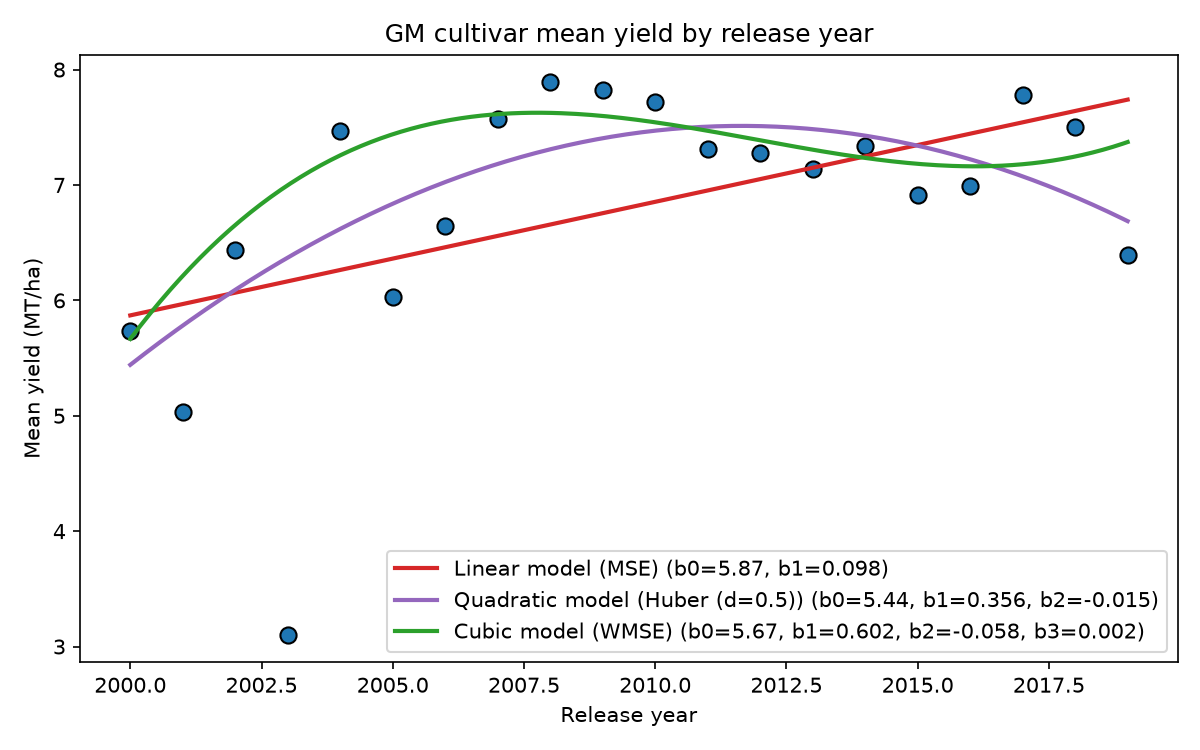
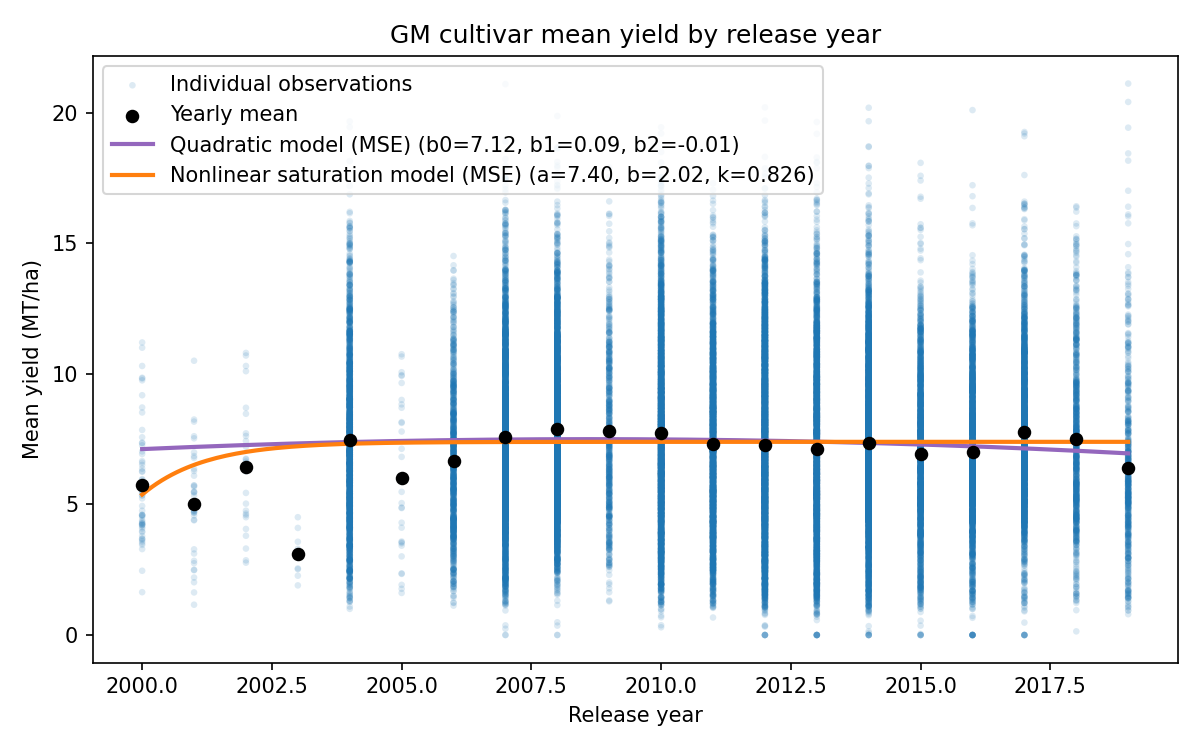
pf4

diff --git a/maize-regression-model.py b/maize-regression-model.py
@@ -4,65 +4,76 @@ import matplotlib.pyplot as plt
 
 reg_df = pd.read_stata('SourceData/RegData.dta')
 
-gm_df = reg_df[reg_df['AGE'] == 1].copy()
+gm_df = reg_df[reg_df['AGE'] == 1][['release', 'Yield']].dropna()
 
-yearly = gm_df.groupby('release')['Yield'].agg(['mean', 'std', 'count']).reset_index()
-
-x = yearly['release'].values - 2000 #RLYR offset
-y = yearly['mean'].values
-
-w = yearly['count'].values
-
-"""def model_lin(th, x):
-    return th[0] + th[1]*x
+x = gm_df['release'].values - 2000 #RLYR offset
+y = gm_df['Yield'].values
 
 def model_quad(th, x):
     return th[0] + th[1]*x + th[2]*(x**2)
 
-def model_cube(th, x):
-    return th[0] + th[1]*x + th[2]*(x**2) + th[3]*(x**3)"""
+def model_non_linear(th, x):
+    return th[0] - th[1]*np.exp(-th[2]*x) # asymptotic growth
 
-def model(th, x):
-    return sum(th[i] * x**i for i in range(len(th)))
-
-def mse_loss(th, x, y):
+def mse_loss(th, x, y, model):
     return np.mean((y - model(th, x))**2)
 
-def huber_loss(th, x, y, delta=0.5):
-    r = y - model(th, x)
-    abs_r = np.abs(r)
-    per_point_loss = np.where(
-        abs_r <= delta,
-        0.5 * r**2,
-        delta * (abs_r - 0.5 * delta)
-    )
-    return np.mean(per_point_loss)
+x0_quad = [y.mean(), 0, 0]
+x0_nonlinear = [y.mean(), 2, 0.5]
 
-def wmse_loss(th, x, y, w):
-    return np.sum(w * (y - model(th, x))**2) / np.sum(w)
+result_quad = minimize(mse_loss, x0=x0_quad, args=(x, y, model_quad), method='BFGS')
+result_nonlinear = minimize(mse_loss, x0=x0_nonlinear, args=(x, y, model_non_linear), method='BFGS')
 
-result_lin = minimize(mse_loss, x0=[0, 0], args=(x, y), method='BFGS')
-result_quad = minimize(huber_loss, x0=[0, 0, 0], args=(x, y), method='BFGS')
-result_cube = minimize(wmse_loss, x0=[0, 0, 0, 0], args=(x, y, w), method='BFGS')
+print(f'result quad: {result_quad}')
+print(f'result non linear: {result_nonlinear}')
 
-print(result_lin)
-print(result_quad)
-print(result_cube)
+#bootstrapping
+rng = np.random.default_rng(42)
+n = len(x)
+
+def bootstrap_replicate():
+    i = rng.integers(0, n, size=n) # resample rows ...
+    quad = minimize(mse_loss, x0=result_quad.x, args=(x[i], y[i], model_quad), method='BFGS').x
+    nonlinear = minimize(mse_loss, x0=result_nonlinear.x, args=(x[i], y[i], model_non_linear), method='BFGS').x
+    return quad, nonlinear # ... and refit both models
+
+reps = [bootstrap_replicate() for _ in range(1000)]
+bs_quad = np.array([r[0] for r in reps])
+bs_nonlinear = np.array([r[1] for r in reps])
+
+# percentile intervals for the parameters
+print('quad confidence interval (b0, b1, b2):\n', np.quantile(bs_quad, [0.025, 0.975], axis=0).T)
+print('nonlinear confidence interval (a, b, k):\n', np.quantile(bs_nonlinear, [0.025, 0.975], axis=0).T)
+
+# yield gain betweeen 2000 and 2019
+def gain(model, th):
+    return model(th, 19) - model(th, 0)
+
+gain_quad = np.array([gain(model_quad, th) for th in bs_quad])
+gain_nonlinear = np.array([gain(model_non_linear, th) for th in bs_nonlinear])
+print('gain quad confidence interval:', np.quantile(gain_quad, [0.025, 0.975]))
+print('gain nonlinear confidence interval:', np.quantile(gain_nonlinear, [0.025, 0.975]))
+print('gain difference confidence interval (quad - nonlinear):', np.quantile(gain_quad - gain_nonlinear, [0.025, 0.975]))
 
 x_grid = np.linspace(x.min(), x.max(), 200)
-y_fit_lin = model(result_lin.x, x_grid)
-y_fit_quad = model(result_quad.x, x_grid)
-y_fit_cube = model(result_cube.x, x_grid)
+y_fit_quad = model_quad(result_quad.x, x_grid)
+y_fit_nonlinear = model_non_linear(result_nonlinear.x, x_grid)
 release_grid = x_grid + 2000 #re-add year offset for graph
 
+yearly_mean = gm_df.groupby('release')['Yield'].mean()
+
 plt.figure(figsize=(8, 5))
-plt.scatter(yearly['release'], yearly['mean'], s=60, color='tab:blue', edgecolor='black')
-plt.plot(release_grid, y_fit_lin, color='tab:red', linewidth=2,
-         label=f'Linear model (MSE) (b0={result_lin.x[0]:.2f}, b1={result_lin.x[1]:.3f})')
+plt.scatter(gm_df['release'], gm_df['Yield'], s=10, alpha=0.15,
+            color='tab:blue', edgecolor='none', label='Individual observations')
+plt.scatter(yearly_mean.index, yearly_mean.values, s=30, color='black',
+            zorder=3, label='Yearly mean')
+
 plt.plot(release_grid, y_fit_quad, color='tab:purple', linewidth=2,
-         label=f'Quadratic model (Huber (d=0.5)) (b0={result_quad.x[0]:.2f}, b1={result_quad.x[1]:.3f}, b2={result_quad.x[2]:.3f})')
-plt.plot(release_grid, y_fit_cube, color='tab:green', linewidth=2,
-         label=f'Cubic model (WMSE) (b0={result_cube.x[0]:.2f}, b1={result_cube.x[1]:.3f}, b2={result_cube.x[2]:.3f}, b3={result_cube.x[3]:.3f})')
+         label=f'Quadratic model (MSE) (b0={result_quad.x[0]:.2f}, b1={result_quad.x[1]:.2f}, b2={result_quad.x[2]:.2f})')
+
+plt.plot(release_grid, y_fit_nonlinear, color='tab:orange', linewidth=2,
+         label=f'Nonlinear asymptotic growth model (MSE) (a={result_nonlinear.x[0]:.2f}, b={result_nonlinear.x[1]:.2f}, k={result_nonlinear.x[2]:.3f})')
+
 plt.xlabel('Release year')
 plt.ylabel('Mean yield (MT/ha)')
 plt.title('GM cultivar mean yield by release year')

diff --git a/pf3/maize-regression-model.py b/pf3/maize-regression-model.py
@@ -1,0 +1,72 @@
+import pandas as pd, numpy as np
+from scipy.optimize import minimize
+import matplotlib.pyplot as plt
+
+reg_df = pd.read_stata('SourceData/RegData.dta')
+
+gm_df = reg_df[reg_df['AGE'] == 1].copy()
+
+yearly = gm_df.groupby('release')['Yield'].agg(['mean', 'std', 'count']).reset_index()
+
+x = yearly['release'].values - 2000 #RLYR offset
+y = yearly['mean'].values
+
+w = yearly['count'].values
+
+"""def model_lin(th, x):
+    return th[0] + th[1]*x
+
+def model_quad(th, x):
+    return th[0] + th[1]*x + th[2]*(x**2)
+
+def model_cube(th, x):
+    return th[0] + th[1]*x + th[2]*(x**2) + th[3]*(x**3)"""
+
+def model(th, x):
+    return sum(th[i] * x**i for i in range(len(th)))
+
+def mse_loss(th, x, y):
+    return np.mean((y - model(th, x))**2)
+
+def huber_loss(th, x, y, delta=0.5):
+    r = y - model(th, x)
+    abs_r = np.abs(r)
+    per_point_loss = np.where(
+        abs_r <= delta,
+        0.5 * r**2,
+        delta * (abs_r - 0.5 * delta)
+    )
+    return np.mean(per_point_loss)
+
+def wmse_loss(th, x, y, w):
+    return np.sum(w * (y - model(th, x))**2) / np.sum(w)
+
+result_lin = minimize(mse_loss, x0=[0, 0], args=(x, y), method='BFGS')
+result_quad = minimize(huber_loss, x0=[0, 0, 0], args=(x, y), method='BFGS')
+result_cube = minimize(wmse_loss, x0=[0, 0, 0, 0], args=(x, y, w), method='BFGS')
+
+print(result_lin)
+print(result_quad)
+print(result_cube)
+
+x_grid = np.linspace(x.min(), x.max(), 200)
+y_fit_lin = model(result_lin.x, x_grid)
+y_fit_quad = model(result_quad.x, x_grid)
+y_fit_cube = model(result_cube.x, x_grid)
+release_grid = x_grid + 2000 #re-add year offset for graph
+
+plt.figure(figsize=(8, 5))
+plt.scatter(yearly['release'], yearly['mean'], s=60, color='tab:blue', edgecolor='black')
+plt.plot(release_grid, y_fit_lin, color='tab:red', linewidth=2,
+         label=f'Linear model (MSE) (b0={result_lin.x[0]:.2f}, b1={result_lin.x[1]:.3f})')
+plt.plot(release_grid, y_fit_quad, color='tab:purple', linewidth=2,
+         label=f'Quadratic model (Huber (d=0.5)) (b0={result_quad.x[0]:.2f}, b1={result_quad.x[1]:.3f}, b2={result_quad.x[2]:.3f})')
+plt.plot(release_grid, y_fit_cube, color='tab:green', linewidth=2,
+         label=f'Cubic model (WMSE) (b0={result_cube.x[0]:.2f}, b1={result_cube.x[1]:.3f}, b2={result_cube.x[2]:.3f}, b3={result_cube.x[3]:.3f})')
+plt.xlabel('Release year')
+plt.ylabel('Mean yield (MT/ha)')
+plt.title('GM cultivar mean yield by release year')
+plt.legend()
+
+plt.tight_layout()
+plt.savefig('yearly_scatter.png', dpi=150)
